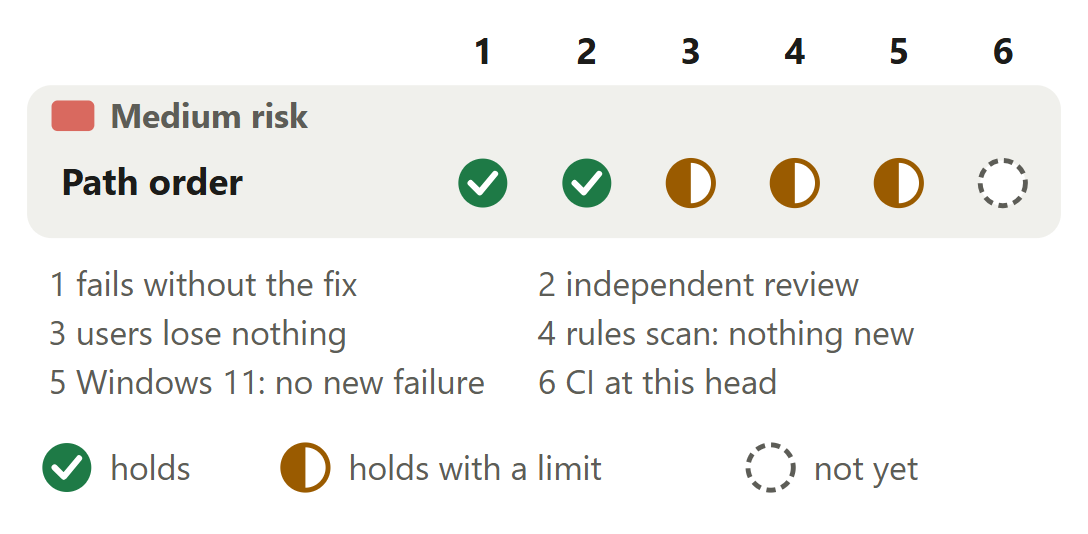
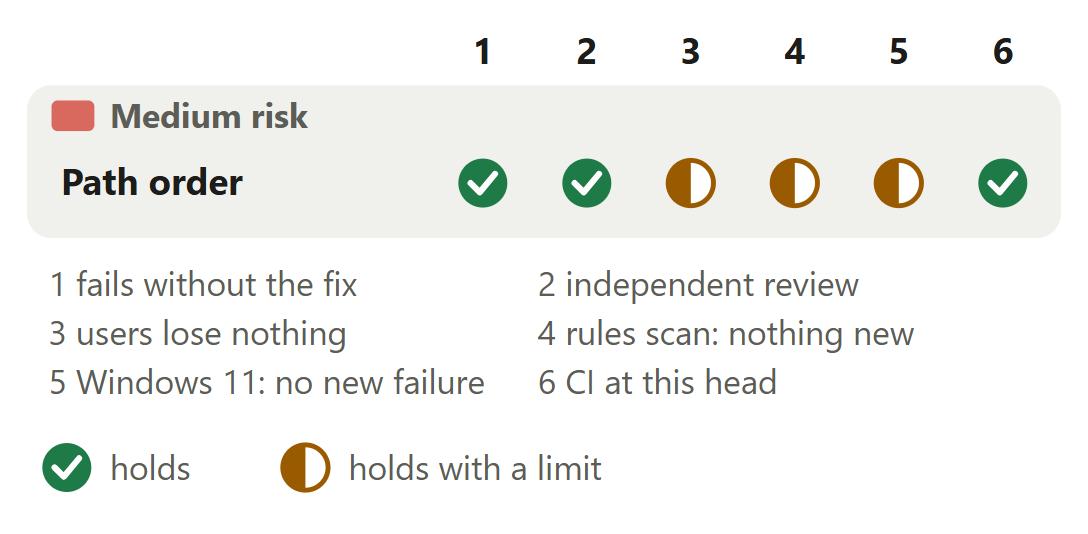
Decision report for #635 (JeanFrancoisGagne/audit-walk-path-order)
audit-walk-path-order/ holds what the pull request's callout links: README.md, the report in GitHub Markdown; report.html, the self-standing page; and 1 image(s).

Changed region(s): [[0.6875, 0.809, 0.8438, 0.8989], [0.875, 0.2996, 0.9688, 0.3895], [0.6875, 0.8989, 0.7188, 0.9288]]

diff --git a/audit-walk-path-order/report.html b/audit-walk-path-order/report.html
@@ -319,7 +319,7 @@ td .src { display: block; font-size: 13px; color: var(--muted); margin-top: 3px;
   <ol><li><svg class="fl full" viewBox="0 0 14 16" aria-hidden="true"><path d="M2 1v14M2 1h10l-3 4l3 4h-10"/></svg>A walk reads in path order: a folder gives the same audit on every machine. <b>Changes the intent.</b></li></ol></div>
   <p class="rec"><b>We recommend:</b> yes to the change of intent, which a maintainer rules on first, then approve after reading the <a href="#look">one place marked read first</a>. Closing it instead costs nothing in CI, and audits keep differing by machine.</p>
   <div class="big">
-    <div><b class="w">202 lines</b><span>in 5 files. 39 ship, 163 are tests and text.</span></div><div><b class="w">Fast lane</b><span>A maintainer rules on the intent before it is approved.</span></div><div><b class="w">Waits on CI at 24741d435</b><span>Not run yet: it starts with the push.</span></div><div><b class="w">4 not verified</b><span><a href="#gaps">Part 8</a> lists each.</span></div>
+    <div><b class="w">202 lines</b><span>in 5 files. 39 ship, 163 are tests and text.</span></div><div><b class="w">Fast lane</b><span>A maintainer rules on the intent before it is approved.</span></div><div><b class="w">Waits on nothing</b><span>CI is green at 24741d435.</span></div><div><b class="w">3 not verified</b><span><a href="#gaps">Part 8</a> lists each.</span></div>
   </div>
   <p class="state">Read from <a href="https://github.com/neralabs/rerail/pull/635">GitHub</a> on 13 November 2026, at head 24741d435.</p>
 </header>
@@ -332,9 +332,9 @@ td .src { display: block; font-size: 13px; color: var(--muted); margin-top: 3px;
 <ol class="steps"><li class="first"><div><span class="rf">Read first</span><b><code>code-rule-enforcer.ts</code>: <code>#enqueueAuditDirectory</code>, <code>pushInPathOrder</code>, <code>walkOrderKey</code></b><span class="min">5 min</span><span class="x">Its <code>finally</code> pushes what a failed listing gave. Does every entry main pushed still reach the stack?</span></div></li></ol>
 <div class="skim"><i></i><div><span class="rf">Then skim</span><b>Tests and text</b><span class="min">5 min</span><span class="x">One helper comment changes: it held main&#x27;s words on entry order. No existing assertion changes. Two new tests mock <code>opendir</code>. The release note is filed as <code>fixed-</code>, not <code>changed-</code>.</span></div></div>
 </section><section id="grid"><h2>4. Risk against verification</h2>
-<figure class="fg"><svg viewBox="0 0 340 159" role="img" aria-label="The changes by risk, high on top, against six checks. Path order, medium risk: users lose nothing holds with a limit, rules scan: nothing new holds with a limit, Windows 11: no new failure holds with a limit. CI at this head does not hold yet for every change." class="dg grid"><text x="150" y="13" text-anchor="middle" class="t b">1</text><text x="184" y="13" text-anchor="middle" class="t b">2</text><text x="218" y="13" text-anchor="middle" class="t b">3</text><text x="252" y="13" text-anchor="middle" class="t b">4</text><text x="286" y="13" text-anchor="middle" class="t b">5</text><text x="320" y="13" text-anchor="middle" class="t b">6</text><rect x="1" y="20" width="338" height="50" rx="8" class="bx zone"/><rect x="9" y="25" width="14" height="10" rx="2" class="rk med"/><text x="28" y="34" class="t s b">Medium risk</text><text x="12" y="56" class="t b">Path order</text><g><title>Path order, fails without the fix: The path-order test compares the failure list unsorted. With main&#x27;s walk it fails through the directory walk, on tmpfs and on ext4. At 24741d435, with the sort line deleted, it fails on both, and the byte-budget test too. The listing-error test fails with the first commit&#x27;s walk. Since #639 main&#x27;s own test passes in either order.</title><circle cx="150" cy="52" r="8" class="mh"/><path d="M146 52l3 3l5 -6" class="mt"/></g><g><title>Path order, independent review: Our independent check read behaviour, edge cases and design. It found one blocker: with the first commit alone, a listing that failed partway left the entries it had listed unaudited. Commit e3f866f48 fixed it with a test, and the check&#x27;s second round passed it. A cold check at ad3b06026, the commit before the merge of main, found no behaviour defect.</title><circle cx="184" cy="52" r="8" class="mh"/><path d="M180 52l3 3l5 -6" class="mt"/></g><g><title>Path order, users lose nothing: At 83e627c0f against main, over 1,741 files on tmpfs and ext4: status, violations and unlisted counts are unchanged, and the walk reads the same files. Under the 20-failure cap the failures are the same set. Over it a plain folder lists what a Git checkout lists. Not rerun since main gained #503. No walk went past its 100,000-file budget.</title><circle cx="218" cy="52" r="7.4" class="ml"/><path d="M218 44.6A7.4 7.4 0 0 0 218 59.4Z" class="mlf"/></g><g><title>Path order, rules scan: nothing new: 15 findings over the ceiling at the merge base and the same 15 at ad3b06026, none new. The two new functions count 2, and the edited method counts 4, as at main. The scan ran before the merge of main at 24741d435 and was not rerun there.</title><circle cx="252" cy="52" r="7.4" class="ml"/><path d="M252 44.6A7.4 7.4 0 0 0 252 59.4Z" class="mlf"/></g><g><title>Path order, Windows 11: no new failure: Both changed test files ran once at 24741d435 on Windows 11 with Node 24.21.0: 72 passed, 1 skipped, none failed, with nothing outside main&#x27;s baseline there. The skip is main&#x27;s own since #503, on the unreadable-folder test. The whole suite did not run on Windows, and that machine&#x27;s engine was built from an older native tree.</title><circle cx="286" cy="52" r="7.4" class="ml"/><path d="M286 44.6A7.4 7.4 0 0 0 286 59.4Z" class="mlf"/></g><g><title>Path order, CI at this head: CI has not run at 24741d435: it starts with the push. At 24fd78e81, three commits earlier, 26 of 27 checks passed and 1 was skipped, the Rust engine. Since then two commits edit one test file, and one merges main, which now holds #503 and #636.</title><circle cx="320" cy="52" r="7.4" class="mo"/></g><text x="8" y="89" class="t s">1  fails without the fix</text><text x="168" y="89" class="t s">2  independent review</text><text x="8" y="105" class="t s">3  users lose nothing</text><text x="168" y="105" class="t s">4  rules scan: nothing new</text><text x="8" y="121" class="t s">5  Windows 11: no new failure</text><text x="168" y="121" class="t s">6  CI at this head</text><g><title>holds</title><circle cx="14" cy="145" r="8" class="mh"/><path d="M10 145l3 3l5 -6" class="mt"/></g><text x="28" y="149" class="t s">holds</text><g><title>holds with a limit</title><circle cx="92" cy="145" r="7.4" class="ml"/><path d="M92 137.6A7.4 7.4 0 0 0 92 152.4Z" class="mlf"/></g><text x="106" y="149" class="t s">holds with a limit</text><g><title>does not hold yet</title><circle cx="244.1" cy="145" r="7.4" class="mo"/></g><text x="258.1" y="149" class="t s">not yet</text></svg>
-<figcaption>CI has not run at 24741d435. Three half marks: no walk past the file budget, a rules scan from before the merge, two test files on Windows.</figcaption></figure>
-<details class="ev"><summary>Each limit, and each check that does not hold yet</summary><div class="table-wrap"><table class="tc tight"><colgroup><col style="width:18%"><col style="width:22%"><col style="width:60%"></colgroup><thead><tr><th>Change</th><th>Check</th><th>Its limit, or why it does not hold yet</th></tr></thead><tbody><tr><td class="k">Path order</td><td data-l="Check">users lose nothing</td><td data-l="Its limit, or why it does not hold yet">At 83e627c0f against main, over 1,741 files on tmpfs and ext4: status, violations and unlisted counts are unchanged, and the walk reads the same files. Under the 20-failure cap the failures are the same set. Over it a plain folder lists what a Git checkout lists. Not rerun since main gained #503. No walk went past its 100,000-file budget.</td></tr><tr><td class="k">Path order</td><td data-l="Check">rules scan: nothing new</td><td data-l="Its limit, or why it does not hold yet">15 findings over the ceiling at the merge base and the same 15 at ad3b06026, none new. The two new functions count 2, and the edited method counts 4, as at main. The scan ran before the merge of main at 24741d435 and was not rerun there.</td></tr><tr><td class="k">Path order</td><td data-l="Check">Windows 11: no new failure</td><td data-l="Its limit, or why it does not hold yet">Both changed test files ran once at 24741d435 on Windows 11 with Node 24.21.0: 72 passed, 1 skipped, none failed, with nothing outside main&#x27;s baseline there. The skip is main&#x27;s own since #503, on the unreadable-folder test. The whole suite did not run on Windows, and that machine&#x27;s engine was built from an older native tree.</td></tr><tr><td class="k">Path order</td><td data-l="Check">CI at this head</td><td data-l="Its limit, or why it does not hold yet">CI has not run at 24741d435: it starts with the push. At 24fd78e81, three commits earlier, 26 of 27 checks passed and 1 was skipped, the Rust engine. Since then two commits edit one test file, and one merges main, which now holds #503 and #636.</td></tr></tbody></table></div></details>
+<figure class="fg"><svg viewBox="0 0 340 159" role="img" aria-label="The changes by risk, high on top, against six checks. Path order, medium risk: users lose nothing holds with a limit, rules scan: nothing new holds with a limit, Windows 11: no new failure holds with a limit. CI at this head holds for every change." class="dg grid"><text x="150" y="13" text-anchor="middle" class="t b">1</text><text x="184" y="13" text-anchor="middle" class="t b">2</text><text x="218" y="13" text-anchor="middle" class="t b">3</text><text x="252" y="13" text-anchor="middle" class="t b">4</text><text x="286" y="13" text-anchor="middle" class="t b">5</text><text x="320" y="13" text-anchor="middle" class="t b">6</text><rect x="1" y="20" width="338" height="50" rx="8" class="bx zone"/><rect x="9" y="25" width="14" height="10" rx="2" class="rk med"/><text x="28" y="34" class="t s b">Medium risk</text><text x="12" y="56" class="t b">Path order</text><g><title>Path order, fails without the fix: The path-order test compares the failure list unsorted. With main&#x27;s walk it fails through the directory walk, on tmpfs and on ext4. At 24741d435, with the sort line deleted, it fails on both, and the byte-budget test too. The listing-error test fails with the first commit&#x27;s walk. Since #639 main&#x27;s own test passes in either order.</title><circle cx="150" cy="52" r="8" class="mh"/><path d="M146 52l3 3l5 -6" class="mt"/></g><g><title>Path order, independent review: Our independent check read behaviour, edge cases and design. It found one blocker: with the first commit alone, a listing that failed partway left the entries it had listed unaudited. Commit e3f866f48 fixed it with a test, and the check&#x27;s second round passed it. A cold check at ad3b06026, the commit before the merge of main, found no behaviour defect.</title><circle cx="184" cy="52" r="8" class="mh"/><path d="M180 52l3 3l5 -6" class="mt"/></g><g><title>Path order, users lose nothing: At 83e627c0f against main, over 1,741 files on tmpfs and ext4: status, violations and unlisted counts are unchanged, and the walk reads the same files. Under the 20-failure cap the failures are the same set. Over it a plain folder lists what a Git checkout lists. Not rerun since main gained #503. No walk went past its 100,000-file budget.</title><circle cx="218" cy="52" r="7.4" class="ml"/><path d="M218 44.6A7.4 7.4 0 0 0 218 59.4Z" class="mlf"/></g><g><title>Path order, rules scan: nothing new: 15 findings over the ceiling at the merge base and the same 15 at ad3b06026, none new. The two new functions count 2, and the edited method counts 4, as at main. The scan ran before the merge of main at 24741d435 and was not rerun there.</title><circle cx="252" cy="52" r="7.4" class="ml"/><path d="M252 44.6A7.4 7.4 0 0 0 252 59.4Z" class="mlf"/></g><g><title>Path order, Windows 11: no new failure: Both changed test files ran once at 24741d435 on Windows 11 with Node 24.21.0: 72 passed, 1 skipped, none failed, with nothing outside main&#x27;s baseline there. The skip is main&#x27;s own since #503, on the unreadable-folder test. The whole suite ran only in CI, on Windows Server 2025. The Windows 11 engine was built from an older native tree.</title><circle cx="286" cy="52" r="7.4" class="ml"/><path d="M286 44.6A7.4 7.4 0 0 0 286 59.4Z" class="mlf"/></g><g><title>Path order, CI at this head: At 24741d435, 28 of 29 checks pass and 1 is skipped, the Rust engine. None fails. In the first attempt `Unit tests (2/2)` and `Unit tests (Windows, 2/2)` each failed on one test of main that this pull request does not touch. We reran the failed jobs once and both passed.</title><circle cx="320" cy="52" r="8" class="mh"/><path d="M316 52l3 3l5 -6" class="mt"/></g><text x="8" y="89" class="t s">1  fails without the fix</text><text x="168" y="89" class="t s">2  independent review</text><text x="8" y="105" class="t s">3  users lose nothing</text><text x="168" y="105" class="t s">4  rules scan: nothing new</text><text x="8" y="121" class="t s">5  Windows 11: no new failure</text><text x="168" y="121" class="t s">6  CI at this head</text><g><title>holds</title><circle cx="14" cy="145" r="8" class="mh"/><path d="M10 145l3 3l5 -6" class="mt"/></g><text x="28" y="149" class="t s">holds</text><g><title>holds with a limit</title><circle cx="92" cy="145" r="7.4" class="ml"/><path d="M92 137.6A7.4 7.4 0 0 0 92 152.4Z" class="mlf"/></g><text x="106" y="149" class="t s">holds with a limit</text></svg>
+<figcaption>CI is green at 24741d435. Three half marks: no walk past the file budget, a rules scan from before the merge, two test files on Windows 11.</figcaption></figure>
+<details class="ev"><summary>Each half mark's limit</summary><div class="table-wrap"><table class="tc tight"><colgroup><col style="width:18%"><col style="width:22%"><col style="width:60%"></colgroup><thead><tr><th>Change</th><th>Check</th><th>It holds with this limit</th></tr></thead><tbody><tr><td class="k">Path order</td><td data-l="Check">users lose nothing</td><td data-l="It holds with this limit">At 83e627c0f against main, over 1,741 files on tmpfs and ext4: status, violations and unlisted counts are unchanged, and the walk reads the same files. Under the 20-failure cap the failures are the same set. Over it a plain folder lists what a Git checkout lists. Not rerun since main gained #503. No walk went past its 100,000-file budget.</td></tr><tr><td class="k">Path order</td><td data-l="Check">rules scan: nothing new</td><td data-l="It holds with this limit">15 findings over the ceiling at the merge base and the same 15 at ad3b06026, none new. The two new functions count 2, and the edited method counts 4, as at main. The scan ran before the merge of main at 24741d435 and was not rerun there.</td></tr><tr><td class="k">Path order</td><td data-l="Check">Windows 11: no new failure</td><td data-l="It holds with this limit">Both changed test files ran once at 24741d435 on Windows 11 with Node 24.21.0: 72 passed, 1 skipped, none failed, with nothing outside main&#x27;s baseline there. The skip is main&#x27;s own since #503, on the unreadable-folder test. The whole suite ran only in CI, on Windows Server 2025. The Windows 11 engine was built from an older native tree.</td></tr></tbody></table></div></details>
 </section><section id="changes"><h2>5. The changes</h2>
 <ul class="lines"><li><span class="chip medium"><i></i>Medium risk</span> <b>Walk in path order</b>: With 22 failing files, main lists a different 20 on tmpfs than on ext4; this change lists the same 20.</li></ul>
 </section><section id="decisions"><h2>6. The decisions</h2>
@@ -356,13 +356,12 @@ td .src { display: block; font-size: 13px; color: var(--muted); margin-top: 3px;
 <details class="ev"><summary>The merge of main, and the shared files</summary><p>The merge of main (53f5b92a1) had one conflict, in the import lines of <code>code-rule-enforcer-mechanical.test.ts</code>, where #503 and this change both add names. It keeps both sides&#x27; imports. The other three shared files merged clean. Four built changes of ours, none open, edit <code>code-rule-enforcer.ts</code>: Git&#x27;s ignore rules asked once per folder, no rule checker for a worktree a walk only asks about, tool calls still checked while rules open, and one opener for in-process Git reads. Open pull requests #638, #640, #562 and #526 also edit <code>docs/reference.md</code>.</p></details>
 </section><section id="gaps"><h2>8. What is not covered</h2>
 <ul class="lines">
-<li><b>CI at 24741d435</b> has not run: it starts with the push.</li>
 <li><b>The 100,000-file budget&#x27;s stop</b> has no test and no run: <a href="#asks">ask 3</a>.</li>
-<li><b>Windows.</b> Only the two changed test files ran.</li>
+<li><b>Windows 11.</b> Only the two changed test files ran. CI ran the whole suite on Windows Server 2025.</li>
 <li><b>macOS</b> never ran.</li>
 </ul>
 <details class="ev"><summary>Five smaller gaps, four limits that stay</summary><ul class="facts">
-<li><b>Since the merge of main.</b> At 24741d435 these ran: both changed test files, 5 times on Linux and once on Windows 11, and the two order tests with the sort line deleted. The comparison over 1,741 files last ran at 83e627c0f, the rules scan at ad3b06026.</li>
+<li><b>Since the merge of main.</b> At 24741d435 CI ran. Our own runs there: both changed test files, 5 times on Linux and once on Windows 11, and the two order tests with the sort line deleted. The comparison over 1,741 files last ran at 83e627c0f, the rules scan at ad3b06026.</li>
 <li><b>Cost at the head.</b> Audit time and peak memory were measured at the first commit, a0fd11bde. The third commit moves the same sort and push into a <code>finally</code> and adds no work, and the later ones change tests only. It takes a rerun of one probe.</li>
 <li><b>A test of the file budget&#x27;s stop.</b> It needs 100,000 files, or the budgets passed in through the enforcer&#x27;s options, which is a source change. This pull request adds neither: <a href="#asks">ask 3</a>.</li>
 <li><b>The engine on Windows.</b> The Windows 11 machine ran the tests with an engine built on 12 November 2026 from an older native tree. The Linux runs used the engine of the merge&#x27;s own native tree. This change edits no native code.</li>
@@ -384,7 +383,7 @@ td .src { display: block; font-size: 13px; color: var(--muted); margin-top: 3px;
 </ol>
 </section><section id="evidence"><h2>10. Evidence</h2>
 <p>The description on GitHub is the record: &quot;How you tested it&quot; for the runs and the rules scan, &quot;Decisions&quot; for the options and the cost table.</p>
-<details class="ev"><summary>Runs at this head</summary><div class="table-wrap"><table class="tc tight"><colgroup><col style="width:16%"><col style="width:40%"><col style="width:44%"></colgroup><thead><tr><th>Where</th><th>What ran</th><th>Result</th></tr></thead><tbody><tr><td class="k">CI on GitHub</td><td data-l="What ran">The pull request&#x27;s checks, read on 13 November 2026</td><td data-l="Result">None at 24741d435: CI starts with the push. At 24fd78e81, three commits earlier, 27 checks: 26 passed, 1 skipped (the Rust engine), none failed. In the first attempt <code>Unit tests (2/2)</code> hit one 5 s timeout in <code>test/cli/rule-draft.test.ts</code>, a test of main that #636, now merged, fixed. The job was rerun once and passed.</td></tr><tr><td class="k">Linux, 32 cores</td><td data-l="What ran">Both changed test files at 24741d435, 5 runs one after another, with the engine built from the merge&#x27;s native tree</td><td data-l="Result">73 of 73 passed in each run.</td></tr><tr><td class="k">Windows 11, Node 24.21.0</td><td data-l="What ran">Both changed test files at 24741d435, 1 run, compared with main&#x27;s baseline on that machine</td><td data-l="Result">72 passed, 1 skipped, none failed. Nothing is outside main&#x27;s baseline. The skip is main&#x27;s own since #503: &quot;audits a Git checkout holding unreadable untracked directories as the walk does&quot; does not run on Windows.</td></tr><tr><td class="k">Linux, 32 cores</td><td data-l="What ran">At 24741d435 with the sort line deleted from <code>pushInPathOrder</code>: the path-order test and the byte-budget test, on tmpfs and on ext4</td><td data-l="Result">The path-order test failed through the directory walk and passed through the Git checkout&#x27;s index, on both. The byte-budget test failed on both: the walk audits the last 16 of 17 files, where the test expects the first 16. With the line restored all 4 runs passed.</td></tr><tr><td class="k">Linux, 32 and 16 cores</td><td data-l="What ran">The path-order test at ad3b06026 with main&#x27;s walk (the source file of 6135908eb), on tmpfs and on ext4. Main&#x27;s own test at 6135908eb, 1 run on each</td><td data-l="Result">With main&#x27;s walk the test failed through the directory walk on both filesystems, on both machines: the 20 failures came in another order and with other members. It passed through the Git checkout&#x27;s index. Main&#x27;s own test passed on both: its helper sorts.</td></tr><tr><td class="k">Linux, 32 cores</td><td data-l="What ran">Before #639: main&#x27;s test at e5bdf8b2, eight at a time, on tmpfs, an ext4 root and ten new ext4 filesystems, with and without load</td><td data-l="Result">Failed 200 of 200 on tmpfs and 24 of 24 on each of the 7 new filesystems that list <code>data</code> first. Failed 0 wherever <code>web</code> is listed first. Load changed neither result. With this change, at the first commit, the whole file ran 1,240 times on the same filesystems: 0 failed.</td></tr><tr><td class="k">Linux, 32 cores</td><td data-l="What ran">Three corpora of up to 1,741 files, each as a plain folder and as a Git checkout, audited at main, at 83e627c0f and at main again, on tmpfs and on ext4</td><td data-l="Result">Status, violations and unlisted counts are unchanged. The walk reads the same files as main, in path order only at 83e627c0f. Under the 20-failure cap the failures are the same set. Over it a plain folder lists the same failures, in the same order, as the Git checkout. Main run twice gave the same results.</td></tr><tr><td class="k">Linux, 32 cores</td><td data-l="What ran">The rules scan as the automated reviewer runs it, at ad3b06026 against its merge base, 6135908eb</td><td data-l="Result">15 findings over the ceiling at the base and the same 15 at ad3b06026, all in <code>code-rule-enforcer.ts</code>, none new.</td></tr></tbody></table></div></details>
+<details class="ev"><summary>Runs at this head</summary><div class="table-wrap"><table class="tc tight"><colgroup><col style="width:16%"><col style="width:40%"><col style="width:44%"></colgroup><thead><tr><th>Where</th><th>What ran</th><th>Result</th></tr></thead><tbody><tr><td class="k">CI on GitHub</td><td data-l="What ran">The pull request&#x27;s checks at 24741d435, read at 17:54 UTC on 13 November 2026: CI run 43473519987, second attempt</td><td data-l="Result">29 checks: 28 passed, 1 skipped (the Rust engine), none failed. <code>Unit tests (1/2)</code>, <code>Unit tests (2/2)</code>, <code>Unit tests (Windows, 1/2)</code>, <code>Unit tests (Windows, 2/2)</code>, <code>Dependency audit</code> and <code>CI result</code> passed. In the first attempt <code>Unit tests (2/2)</code> failed on one test of main in <code>test/engine/code-rule/code-rule-bridge.test.ts</code>, and <code>Unit tests (Windows, 2/2)</code> on one in <code>test/hosts/claude/claude-status.test.ts</code>. This pull request edits neither file. We reran the failed jobs once and both passed.</td></tr><tr><td class="k">Linux, 32 cores</td><td data-l="What ran">Both changed test files at 24741d435, 5 runs one after another, with the engine built from the merge&#x27;s native tree</td><td data-l="Result">73 of 73 passed in each run.</td></tr><tr><td class="k">Windows 11, Node 24.21.0</td><td data-l="What ran">Both changed test files at 24741d435, 1 run, compared with main&#x27;s baseline on that machine</td><td data-l="Result">72 passed, 1 skipped, none failed. Nothing is outside main&#x27;s baseline. The skip is main&#x27;s own since #503: &quot;audits a Git checkout holding unreadable untracked directories as the walk does&quot; does not run on Windows.</td></tr><tr><td class="k">Linux, 32 cores</td><td data-l="What ran">At 24741d435 with the sort line deleted from <code>pushInPathOrder</code>: the path-order test and the byte-budget test, on tmpfs and on ext4</td><td data-l="Result">The path-order test failed through the directory walk and passed through the Git checkout&#x27;s index, on both. The byte-budget test failed on both: the walk audits the last 16 of 17 files, where the test expects the first 16. With the line restored all 4 runs passed.</td></tr><tr><td class="k">Linux, 32 and 16 cores</td><td data-l="What ran">The path-order test at ad3b06026 with main&#x27;s walk (the source file of 6135908eb), on tmpfs and on ext4. Main&#x27;s own test at 6135908eb, 1 run on each</td><td data-l="Result">With main&#x27;s walk the test failed through the directory walk on both filesystems, on both machines: the 20 failures came in another order and with other members. It passed through the Git checkout&#x27;s index. Main&#x27;s own test passed on both: its helper sorts.</td></tr><tr><td class="k">Linux, 32 cores</td><td data-l="What ran">Before #639: main&#x27;s test at e5bdf8b2, eight at a time, on tmpfs, an ext4 root and ten new ext4 filesystems, with and without load</td><td data-l="Result">Failed 200 of 200 on tmpfs and 24 of 24 on each of the 7 new filesystems that list <code>data</code> first. Failed 0 wherever <code>web</code> is listed first. Load changed neither result. With this change, at the first commit, the whole file ran 1,240 times on the same filesystems: 0 failed.</td></tr><tr><td class="k">Linux, 32 cores</td><td data-l="What ran">Three corpora of up to 1,741 files, each as a plain folder and as a Git checkout, audited at main, at 83e627c0f and at main again, on tmpfs and on ext4</td><td data-l="Result">Status, violations and unlisted counts are unchanged. The walk reads the same files as main, in path order only at 83e627c0f. Under the 20-failure cap the failures are the same set. Over it a plain folder lists the same failures, in the same order, as the Git checkout. Main run twice gave the same results.</td></tr><tr><td class="k">Linux, 32 cores</td><td data-l="What ran">The rules scan as the automated reviewer runs it, at ad3b06026 against its merge base, 6135908eb</td><td data-l="Result">15 findings over the ceiling at the base and the same 15 at ad3b06026, all in <code>code-rule-enforcer.ts</code>, none new.</td></tr></tbody></table></div></details>
 <details class="ev"><summary>What this report adds</summary><ul class="facts">
 <li><b>The release note is filed as a fix, and misstates main&#x27;s order.</b> <code>.changelog/fixed-repository-audit-path-order.md</code> opens with <code>fixed-</code>, the type for a bug fixed. Main states the old order as intended, and <code>changed-</code> is the type for something that works differently now. The note also says the audit &quot;took them in the order the filesystem listed them&quot;; main&#x27;s walk takes each folder&#x27;s entries last listed first. At 24741d435 both stand. One text commit would rename the file and correct the sentence.</li>
 <li><b>What the sort costs one folder of 100,000 entries.</b> Our cold check timed the two new functions against main&#x27;s direct push, 9 rounds taking turns, on a 16-core Linux machine. Listing a folder of 100,000 empty files took a median 152 ms at main and 325 ms here on tmpfs, 167 ms and 329 ms on ext4: under 2% of the time the walk then spends reading those files.</li>

diff --git a/audit-walk-path-order/README.md b/audit-walk-path-order/README.md
@@ -12,7 +12,7 @@ For [pull request #635](https://github.com/neralabs/rerail/pull/635), head 24741
 
 | Size | Lane | Waits on | Not verified |
 |---|---|---|---|
-| 202 lines in 5 files: 39 ship, 163 are tests and text | Fast. A maintainer rules on the intent before it is approved. | CI at 24741d435. Not run yet: it starts with the push. | 4 |
+| 202 lines in 5 files: 39 ship, 163 are tests and text | Fast. A maintainer rules on the intent before it is approved. | Nothing. CI is green at 24741d435. | 3 |
 
 ## 2. Intent, and the gap
 
@@ -38,18 +38,17 @@ Found on 12 November 2026 in CI's unit test jobs. #639 made the test pass the ne
 
 ## 4. Risk against verification
 
-<img src="grid.png" width="544" alt="The changes by risk, high on top, against six checks. Path order, medium risk: users lose nothing holds with a limit, rules scan: nothing new holds with a limit, Windows 11: no new failure holds with a limit. CI at this head does not hold yet for every change.">
+<img src="grid.png" width="544" alt="The changes by risk, high on top, against six checks. Path order, medium risk: users lose nothing holds with a limit, rules scan: nothing new holds with a limit, Windows 11: no new failure holds with a limit. CI at this head holds for every change.">
 
-CI has not run at 24741d435. Three half marks: no walk past the file budget, a rules scan from before the merge, two test files on Windows.
+CI is green at 24741d435. Three half marks: no walk past the file budget, a rules scan from before the merge, two test files on Windows 11.
 
-<details><summary>Each limit, and each check that does not hold yet</summary>
+<details><summary>Each half mark's limit</summary>
 
-| Change | Check | Its limit, or why it does not hold yet |
+| Change | Check | It holds with this limit |
 |---|---|---|
 | Path order | users lose nothing | At 83e627c0f against main, over 1,741 files on tmpfs and ext4: status, violations and unlisted counts are unchanged, and the walk reads the same files. Under the 20-failure cap the failures are the same set. Over it a plain folder lists what a Git checkout lists. Not rerun since main gained #503. No walk went past its 100,000-file budget. |
 | Path order | rules scan: nothing new | 15 findings over the ceiling at the merge base and the same 15 at ad3b06026, none new. The two new functions count 2, and the edited method counts 4, as at main. The scan ran before the merge of main at 24741d435 and was not rerun there. |
-| Path order | Windows 11: no new failure | Both changed test files ran once at 24741d435 on Windows 11 with Node 24.21.0: 72 passed, 1 skipped, none failed, with nothing outside main's baseline there. The skip is main's own since #503, on the unreadable-folder test. The whole suite did not run on Windows, and that machine's engine was built from an older native tree. |
-| Path order | CI at this head | CI has not run at 24741d435: it starts with the push. At 24fd78e81, three commits earlier, 26 of 27 checks passed and 1 was skipped, the Rust engine. Since then two commits edit one test file, and one merges main, which now holds #503 and #636. |
+| Path order | Windows 11: no new failure | Both changed test files ran once at 24741d435 on Windows 11 with Node 24.21.0: 72 passed, 1 skipped, none failed, with nothing outside main's baseline there. The skip is main's own since #503, on the unreadable-folder test. The whole suite ran only in CI, on Windows Server 2025. The Windows 11 engine was built from an older native tree. |
 
 </details>
 
@@ -110,16 +109,15 @@ It stands on main alone, which it merged at 24741d435 with #503 and #636. Four c
 
 </details>
 
-<details><summary><b>8. What is not covered</b>: 4 not verified, 5 smaller gaps, 4 limits that stay</summary>
+<details><summary><b>8. What is not covered</b>: 3 not verified, 5 smaller gaps, 4 limits that stay</summary>
 
-1. **CI at 24741d435** has not run: it starts with the push.
-2. **The 100,000-file budget's stop** has no test and no run: [ask 3](#9-what-we-ask-of-you).
-3. **Windows.** Only the two changed test files ran.
-4. **macOS** never ran.
+1. **The 100,000-file budget's stop** has no test and no run: [ask 3](#9-what-we-ask-of-you).
+2. **Windows 11.** Only the two changed test files ran. CI ran the whole suite on Windows Server 2025.
+3. **macOS** never ran.
 
 **Smaller gaps**
 
-- **Since the merge of main.** At 24741d435 these ran: both changed test files, 5 times on Linux and once on Windows 11, and the two order tests with the sort line deleted. The comparison over 1,741 files last ran at 83e627c0f, the rules scan at ad3b06026.
+- **Since the merge of main.** At 24741d435 CI ran. Our own runs there: both changed test files, 5 times on Linux and once on Windows 11, and the two order tests with the sort line deleted. The comparison over 1,741 files last ran at 83e627c0f, the rules scan at ad3b06026.
 - **Cost at the head.** Audit time and peak memory were measured at the first commit, a0fd11bde. The third commit moves the same sort and push into a `finally` and adds no work, and the later ones change tests only. It takes a rerun of one probe.
 - **A test of the file budget's stop.** It needs 100,000 files, or the budgets passed in through the enforcer's options, which is a source change. This pull request adds neither: [ask 3](#9-what-we-ask-of-you).
 - **The engine on Windows.** The Windows 11 machine ran the tests with an engine built on 12 November 2026 from an older native tree. The Linux runs used the engine of the merge's own native tree. This change edits no native code.
@@ -148,7 +146,7 @@ The description on GitHub is the record: "How you tested it" for the runs and th
 
 | Where | What ran | Result |
 |---|---|---|
-| CI on GitHub | The pull request's checks, read on 13 November 2026 | None at 24741d435: CI starts with the push. At 24fd78e81, three commits earlier, 27 checks: 26 passed, 1 skipped (the Rust engine), none failed. In the first attempt `Unit tests (2/2)` hit one 5 s timeout in `test/cli/rule-draft.test.ts`, a test of main that #636, now merged, fixed. The job was rerun once and passed. |
+| CI on GitHub | The pull request's checks at 24741d435, read at 17:54 UTC on 13 November 2026: CI run 43473519987, second attempt | 29 checks: 28 passed, 1 skipped (the Rust engine), none failed. `Unit tests (1/2)`, `Unit tests (2/2)`, `Unit tests (Windows, 1/2)`, `Unit tests (Windows, 2/2)`, `Dependency audit` and `CI result` passed. In the first attempt `Unit tests (2/2)` failed on one test of main in `test/engine/code-rule/code-rule-bridge.test.ts`, and `Unit tests (Windows, 2/2)` on one in `test/hosts/claude/claude-status.test.ts`. This pull request edits neither file. We reran the failed jobs once and both passed. |
 | Linux, 32 cores | Both changed test files at 24741d435, 5 runs one after another, with the engine built from the merge's native tree | 73 of 73 passed in each run. |
 | Windows 11, Node 24.21.0 | Both changed test files at 24741d435, 1 run, compared with main's baseline on that machine | 72 passed, 1 skipped, none failed. Nothing is outside main's baseline. The skip is main's own since #503: "audits a Git checkout holding unreadable untracked directories as the walk does" does not run on Windows. |
 | Linux, 32 cores | At 24741d435 with the sort line deleted from `pushInPathOrder`: the path-order test and the byte-budget test, on tmpfs and on ext4 | The path-order test failed through the directory walk and passed through the Git checkout's index, on both. The byte-budget test failed on both: the walk audits the last 16 of 17 files, where the test expects the first 16. With the line restored all 4 runs passed. |
